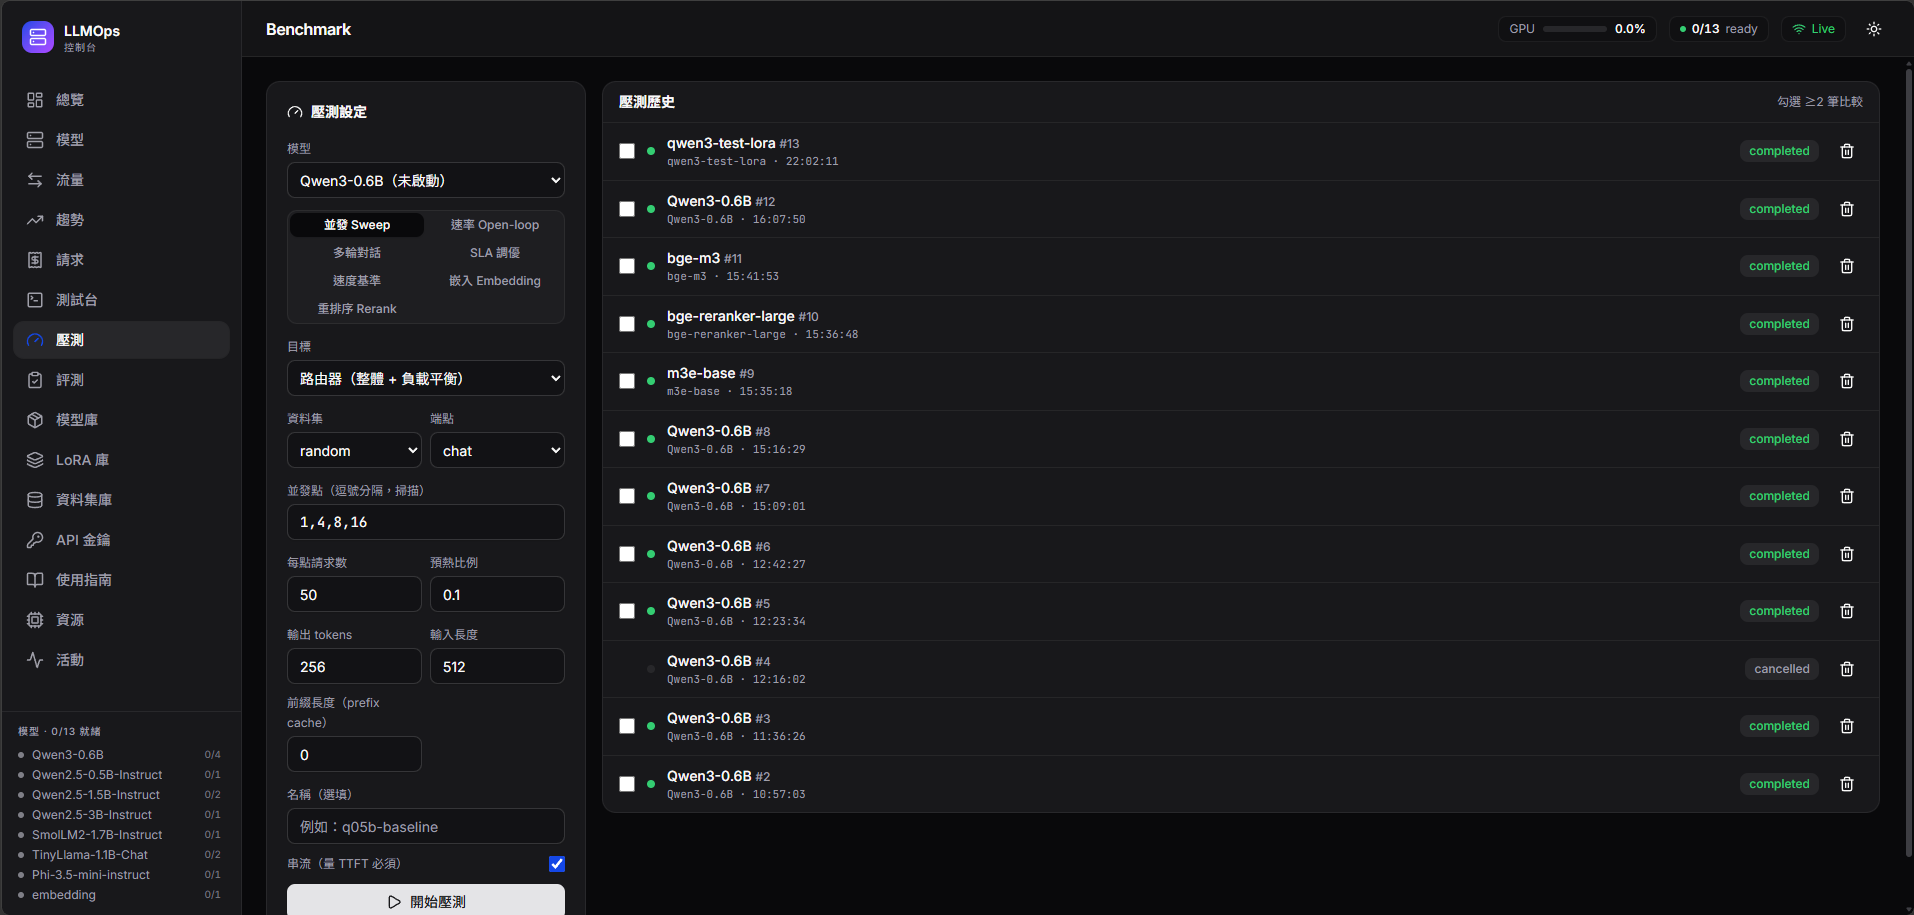
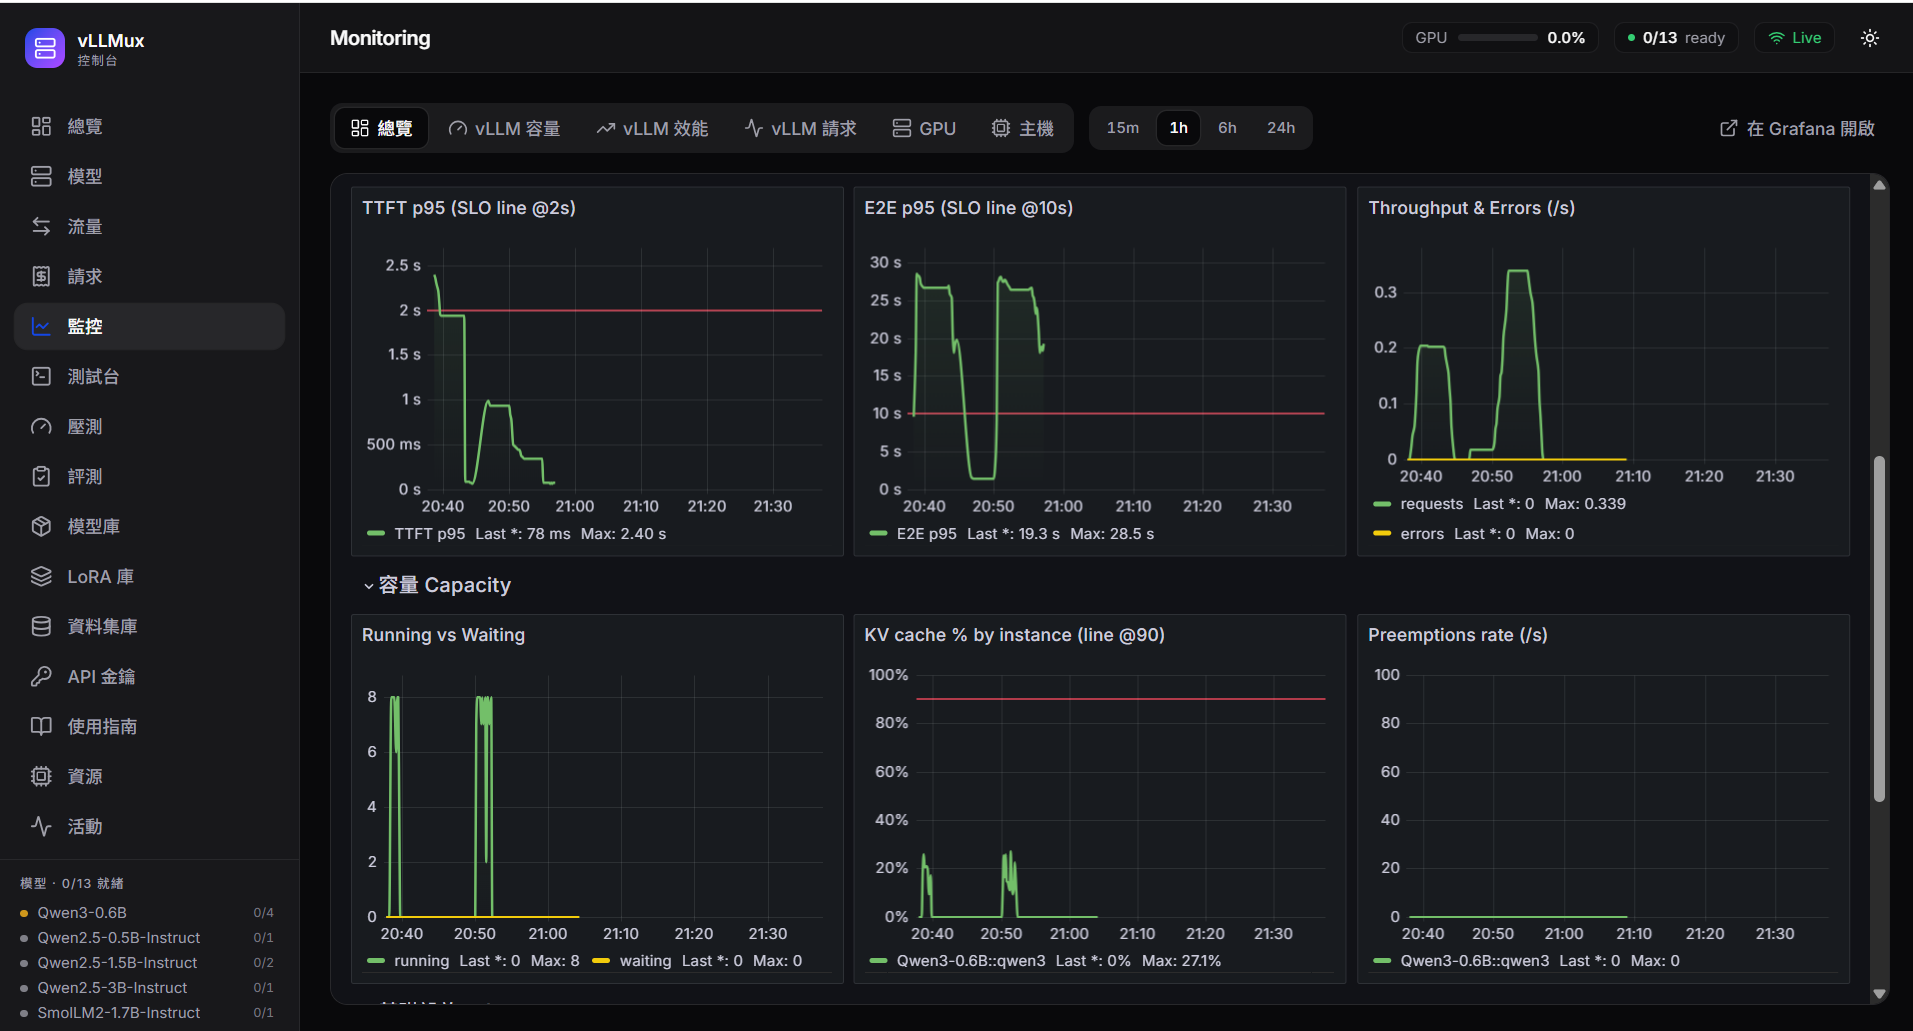
update : readme structure

diff --git a/README.md b/README.md
@@ -2,7 +2,7 @@
 
 # vLLMux
 
-**One-stop platform to deploy, route, monitor & evaluate your vLLM fleet**
+**One-stop platform to deploy, route, monitor & evaluate your vLLM cluster**
 
 [English](README.md) · [中文](README_zh-CN.md)
 
@@ -11,6 +11,8 @@
 ![stack](https://img.shields.io/badge/FastAPI%20·%20Vue%203%20·%20Grafana-informational)
 
 ![Main Console](assets/image0.png)
+![Main Console](assets/image1.png)
+![Main Console](assets/image2.png)
 
 </div>
 
@@ -26,7 +28,7 @@ monitors everything — all behind one Vue dashboard.
 > **Prometheus** scrapes them, sharing one network namespace) plus a Vue **frontend** —
 > started by a single `docker compose`.
 
-## ✨ Highlights
+## Highlights
 
 - **Add a model by pasting `vllm serve …`** — parsed into a form and layered on as a dynamic overlay; the router hot-reloads, no `config.yaml` edits.
 - **Lifecycle + self-healing** — per-instance state machine (`stopped → starting → ready → failed`), VRAM pre-flight guard, GPU auto-placement, crash auto-restart with backoff.
@@ -40,7 +42,7 @@ monitors everything — all behind one Vue dashboard.
 
 See [docs/features.md](docs/features.md) for the full breakdown.
 
-## 🚀 Quick start
+## Quick start
 
 Requires Docker with the NVIDIA Container Toolkit (on WSL2, enable GPU support in
 Docker Desktop).
@@ -62,14 +64,40 @@ curl http://localhost:5000/api/models    # backend: lifecycle state of each inst
 Full topology, the shared-netns rationale, volumes, and a manual run are in
 [docs/deployment.md](docs/deployment.md).
 
-## 🧭 Architecture
+## Architecture
 
-Clients → **frontend** (nginx, `:8884`, single origin) → **router** (`:8887`,
-OpenAI-compatible) → vLLM instances launched on demand by the **backend** (`:5000`).
-**Prometheus** + **Grafana** + the **DCGM / node** exporters provide monitoring. The
-router only routes — the backend owns model lifecycle.
+```mermaid
+flowchart LR
+    Client([Clients])
+    FE["<b>frontend</b><br/>nginx · :8884<br/>single origin"]
+    VLLM["<b>vLLM instances</b><br/>:800x"]
+    GF["<b>grafana</b><br/>/grafana"]
+    DCGM["dcgm-exporter<br/>:9400 · GPU"]
+    NODE["node-exporter<br/>:9100 · host"]
 
-## 📚 Documentation
+    subgraph netns["shared network namespace"]
+        BE["<b>backend</b> · :5000<br/>model lifecycle"]
+        RT["<b>router</b> · :8887<br/>OpenAI-compatible LB"]
+        PR["<b>prometheus</b> · :9090"]
+    end
+
+    Client --> FE
+    FE -->|/api| BE
+    FE -->|/v1| RT
+    FE -->|/grafana| GF
+    BE -->|launch on demand| VLLM
+    RT -->|route + balance| VLLM
+    PR -->|scrape /metrics| VLLM
+    PR --> DCGM
+    PR --> NODE
+    GF -->|query| PR
+```
+
+The **router only routes** — the **backend owns model lifecycle**. The frontend, router,
+backend, and Grafana sit behind nginx on a single origin; backend, router, and Prometheus
+share one network namespace so the spawned vLLM instances are reachable on `localhost`.
+
+## Documentation
 
 | Topic | |
 |---|---|
@@ -78,10 +106,6 @@ router only routes — the backend owns model lifecycle.
 | Features in depth | [docs/features.md](docs/features.md) |
 | Monitoring (Prometheus + Grafana) | [docs/monitoring.md](docs/monitoring.md) |
 | HTTP API | [docs/API.md](docs/API.md) |
-| Benchmarking | [docs/evalscope_模型壓測整理.md](docs/evalscope_模型壓測整理.md) |
-| Evaluation datasets | [docs/evalscope_LLM評測集整理.md](docs/evalscope_LLM評測集整理.md) |
-| LoRA | [docs/vLLM_LoRA_部署整理.md](docs/vLLM_LoRA_部署整理.md) |
-| Tool-calling parsers | [docs/vllm_auto_tool_整理.md](docs/vllm_auto_tool_整理.md) |
 
 ## Requirements
 